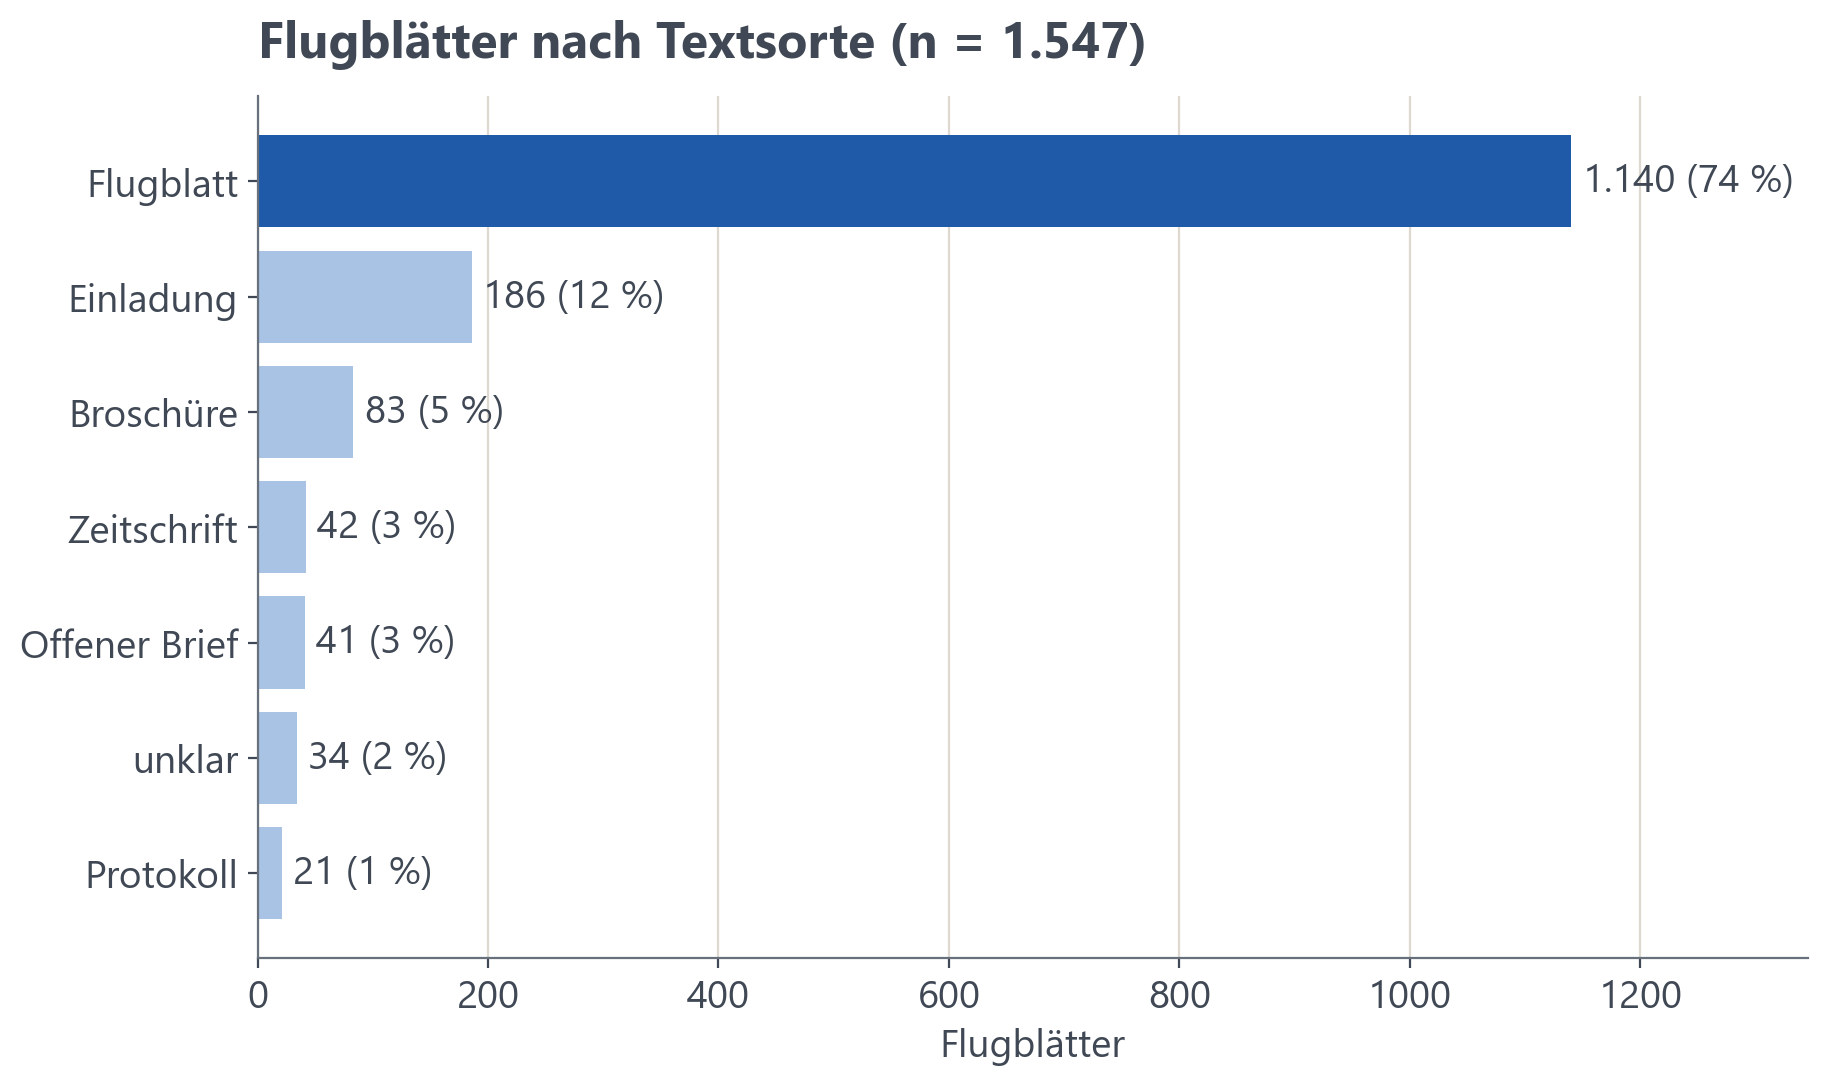
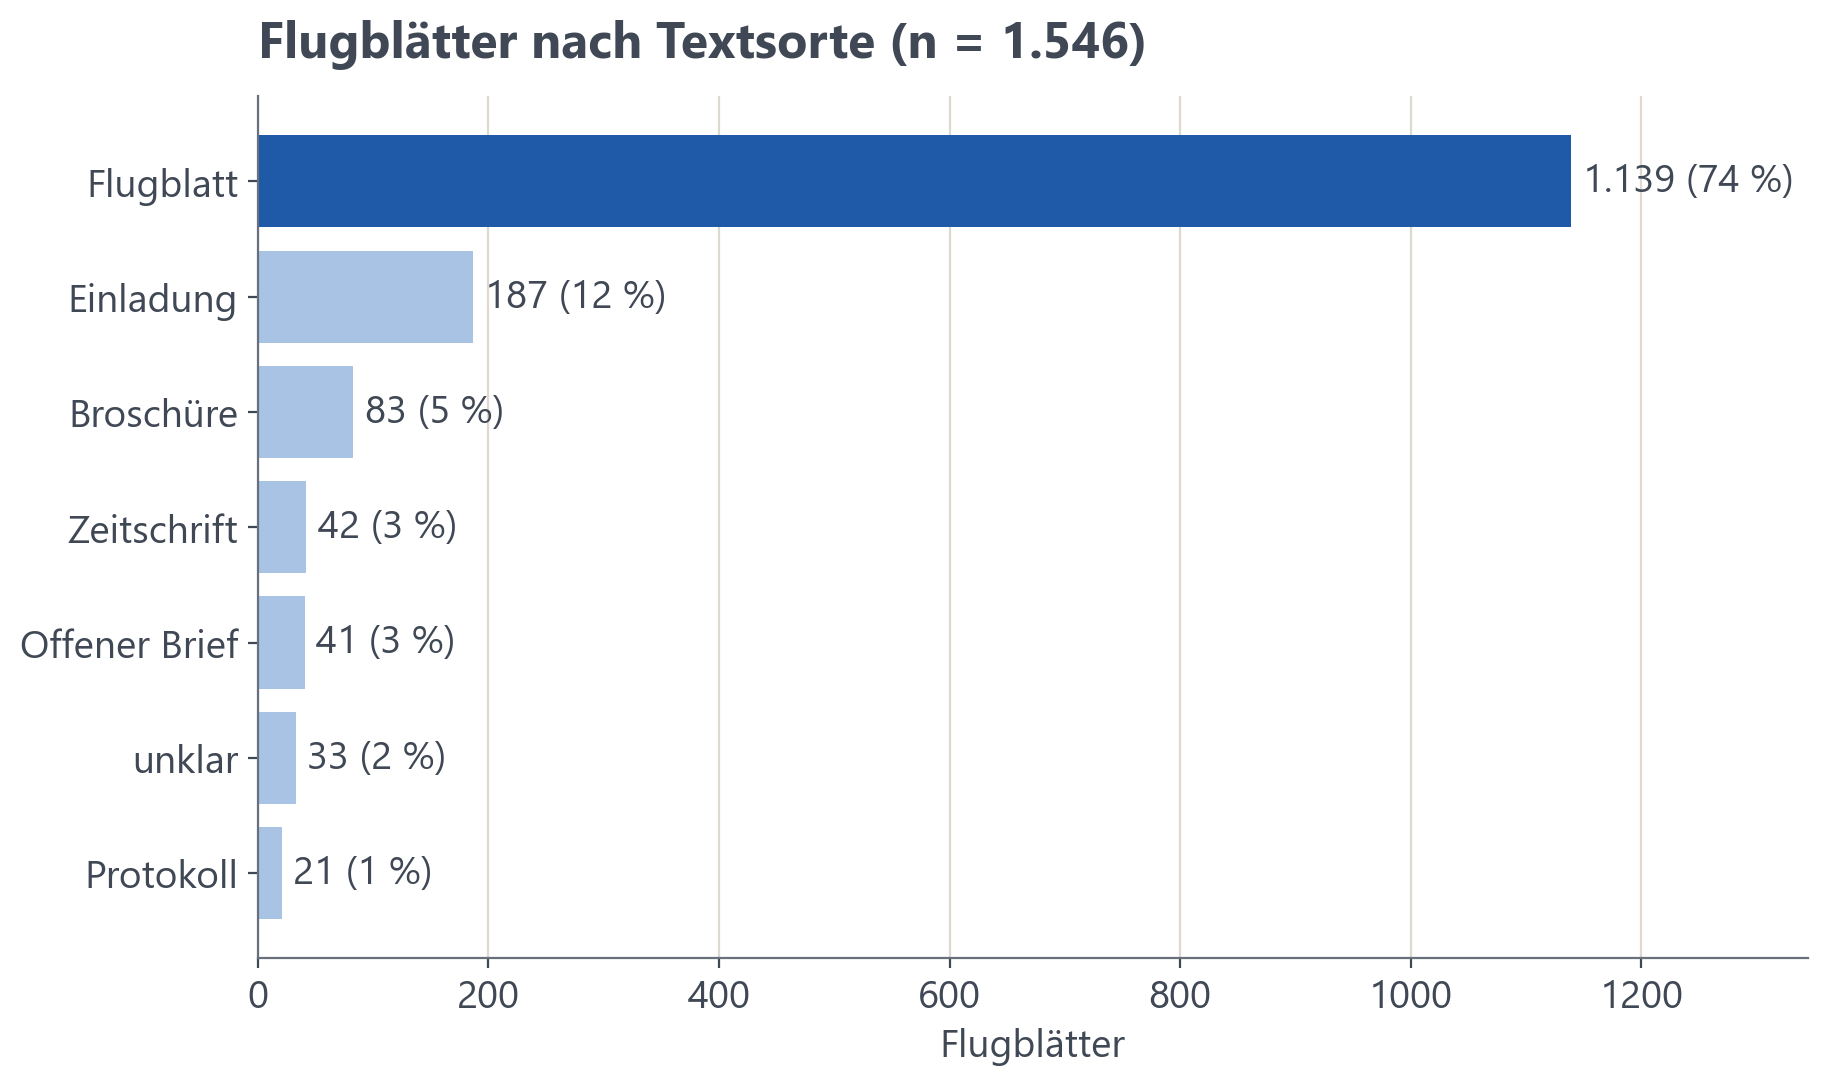
docs: regenerate key figures and plots

diff --git a/scripts/corpus_stats.py b/scripts/corpus_stats.py
@@ -26,7 +26,7 @@ UNDATED = "undatiert"
 
 
 def number(n):
-    return f"{n:,}".replace(",", " ")
+    return str(n)  # no thousands separator, as in the report
 
 
 def percent(part, whole):

diff --git a/docs/kennzahlen.md b/docs/kennzahlen.md
@@ -7,7 +7,7 @@
 <!-- BEGIN generiert -->
 ## Korpus nach Band und Jahr
 
-Stand: 17.10.2026, Datenbank vom 17.10.2026 22:18. Erzeugt von scripts/corpus_stats.py – nicht von Hand bearbeiten.
+Stand: 23.10.2026, Datenbank vom 23.10.2026 01:04. Erzeugt von scripts/corpus_stats.py – nicht von Hand bearbeiten.
 
 ### Je Band
 
@@ -15,7 +15,7 @@ Stand: 17.10.2026, Datenbank vom 17.10.2026 22:18. Erzeugt von scripts/corpus_st
 |---|---|---|---|---|
 | 001 | 1967 | 13 | 6 | 6 |
 | 002 | 1968 | 85 | 58 | 51 |
-| 003 | 1969 | 317 | 212 | 184 |
+| 003 | 1969 | 317 | 211 | 183 |
 | 004 | 1970 | 294 | 187 | 169 |
 | 005 | 1971 | 629 | 230 | 196 |
 | 006 | 1972 | 455 | 184 | 143 |
@@ -27,7 +27,7 @@ Stand: 17.10.2026, Datenbank vom 17.10.2026 22:18. Erzeugt von scripts/corpus_st
 | 012 | 1973 | 286 | 131 | 100 |
 | 013 | 1973 | 261 | 137 | 104 |
 | 014 | 1973 | 499 | 168 | 142 |
-| **Summe** |  | **4464** | **1927** | **1547** |
+| **Summe** |  | **4464** | **1926** | **1546** |
 
 Seiten: Seiten des Bands in der Datenbank, mit Trennblättern. Exemplare: alle Stücke, die beim Trennen entstanden sind (Segmente). Flugblätter: Exemplare zusammengefasst, nur das Hauptexemplar jeder Gruppe, ohne Trennblätter und leere Seiten (sie gehören zu keinem Segment). Nur freigegebene Bände; ein Band ohne Seiten ist angelegt, aber nicht eingelesen.
 
@@ -37,12 +37,12 @@ Seiten: Seiten des Bands in der Datenbank, mit Trennblättern. Exemplare: alle S
 |---|---|---|---|---|---|---|
 | 1967 | 1 | 13 | 6 | 6 | 0 | 0,00 % |
 | 1968 | 1 | 85 | 58 | 51 | 7 | 12,07 % |
-| 1969 | 1 | 317 | 212 | 184 | 28 | 13,21 % |
+| 1969 | 1 | 317 | 211 | 183 | 28 | 13,27 % |
 | 1970 | 1 | 294 | 187 | 169 | 18 | 9,63 % |
 | 1971 | 1 | 629 | 230 | 196 | 34 | 14,78 % |
 | 1972 | 4 | 1608 | 631 | 477 | 154 | 24,41 % |
 | 1973 | 5 | 1518 | 603 | 464 | 139 | 23,05 % |
-| **Summe** | **14** | **4464** | **1927** | **1547** | **380** | **19,72 %** |
+| **Summe** | **14** | **4464** | **1926** | **1546** | **380** | **19,73 %** |
 
 Bandjahr: das Jahr, das der Band im Findmittel trägt. Weitere Exemplare: Exemplare, die nicht Hauptexemplar ihrer Gruppe sind (Exemplare minus Flugblätter), Anteil an den Exemplaren; sie zählen im Jahr ihres eigenen Bandes, das Hauptexemplar kann in einem anderen liegen. Zählweise sonst wie oben.
 
@@ -57,25 +57,25 @@ Bandjahr: das Jahr, das der Band im Findmittel trägt. Weitere Exemplare: Exempl
 | 1971 | 119 | 102 |
 | 1972 | 272 | 212 |
 | 1973 | 242 | 181 |
-| undatiert | 1067 | 842 |
-| **Summe** | **1927** | **1547** |
+| undatiert | 1066 | 841 |
+| **Summe** | **1926** | **1546** |
 
 Datierungsjahr: Jahr des Datums auf dem Flugblatt. Zeile „undatiert“: Flugblätter ohne lesbares Datum (in den App-Listen zählen sie im Jahr ihres Bandes). Seiten gibt es hier nicht, sie hängen am Band. Zählweise wie oben.
 
 ## Herausgeber und Textsorten
 
-Herausgeber mit mindestens einem Flugblatt: **169**. Flugblätter ohne erkannten Herausgeber: 241, mit einem Herausgeber, der nicht im Register steht: 24 (dieselben Flugblätter zählen bei mehreren Herausgebern mehrfach).
+Herausgeber mit mindestens einem Flugblatt: **170**. Flugblätter ohne erkannten Herausgeber: 236, mit einem Herausgeber, der nicht im Register steht: 19 (dieselben Flugblätter zählen bei mehreren Herausgebern mehrfach).
 
 | Textsorte | Flugblätter | Anteil |
 |---|---|---|
-| Flugblatt | 1139 | 73,63 % |
-| Einladung | 187 | 12,09 % |
+| Flugblatt | 1139 | 73,67 % |
+| Einladung | 187 | 12,10 % |
 | Broschüre | 83 | 5,37 % |
-| Zeitschrift | 42 | 2,71 % |
+| Zeitschrift | 42 | 2,72 % |
 | Offener Brief | 41 | 2,65 % |
-| unklar | 34 | 2,20 % |
+| unklar | 33 | 2,13 % |
 | Protokoll | 21 | 1,36 % |
-| **Summe** | **1547** | **100,00 %** |
+| **Summe** | **1546** | **100,00 %** |
 
 Herausgeber: Einträge des Registers, bei denen mindestens ein Flugblatt (Hauptexemplar) steht. Textsorte: Feld „Typ“ des Flugblatts (Hauptexemplar), „unklar“ ohne Angabe.
 
@@ -102,11 +102,11 @@ Goldstandard aus 105 bewerteten Seiten des Testkorpus (Datalab-Ausgabe, siehe be
 | Posten | Datum | Betrag | Art |
 |---|---|---|---|
 | OCR Gesamtbestand (Datalab, 4464 Seiten) | August 2026 | ca. 45 $ | Hochrechnung: Listenpreis 10 $ je 1000 Seiten |
-| davon kostenloses Guthaben (Datalab) | bis 18.08.2026 | [offen] | verbraucht |
+| davon kostenloses Guthaben (Datalab) | bis 18.08.2026 | nicht erfasst | verbraucht |
 | davon abgebucht (Datalab) | 18.08.2026 | 20,11 $ (18,04 €) | Abbuchung |
-| weitere Abbuchungen (Datalab) | | [offen] | Abbuchung |
-| Metadaten, Testlauf 56 Flugblätter aus Band 014 | | 1,36 $ | gemessen (OpenRouter) |
+| weitere Abbuchungen (Datalab) | | nicht erfasst | Abbuchung |
+| Metadaten, Testlauf mit Claude Opus 5.5, 56 Flugblätter aus Band 014 (rund 115 Seiten) | 09.10.2026 | 1,36 $ | gemessen (OpenRouter) |
 | Testimport Band 15, erster Teil (230 Seiten): Texterkennung | 20.10.2026 | 2,30 $ | Abrechnung Datalab |
 | Testimport Band 15, erster Teil (230 Seiten, 83 Flugblätter): Metadaten, Claude Sonnet 4.5 | 20.10.2026 | 2,11 $ | Abrechnung OpenRouter |
-| Metadaten Bände 001–014 | September/Oktober 2026 | [offen] | Abrechnung OpenRouter |
-| Metadaten-Neulauf Bände 001–004 (Vergleich, nicht übernommen) | 17.10.2026 | [offen] | Abrechnung OpenRouter |
+| Metadaten Bände 001–014 | September/Oktober 2026 | nicht erfasst | Abrechnung OpenRouter |
+| Metadaten-Neulauf Bände 001–004 (Vergleich, nicht übernommen) | 17.10.2026 | nicht erfasst | Abrechnung OpenRouter |
